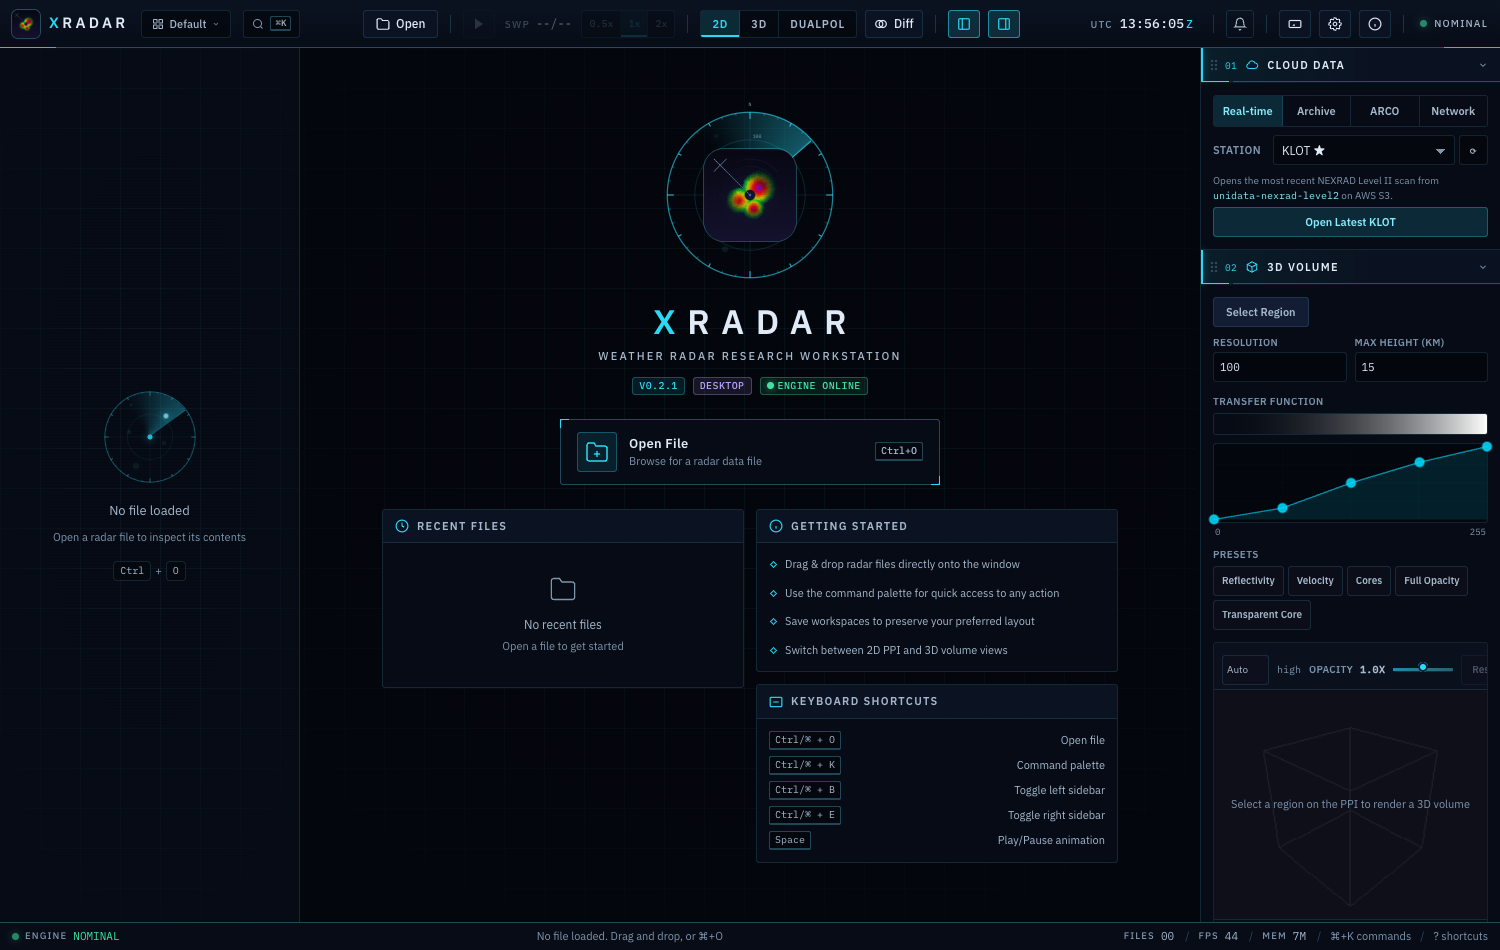
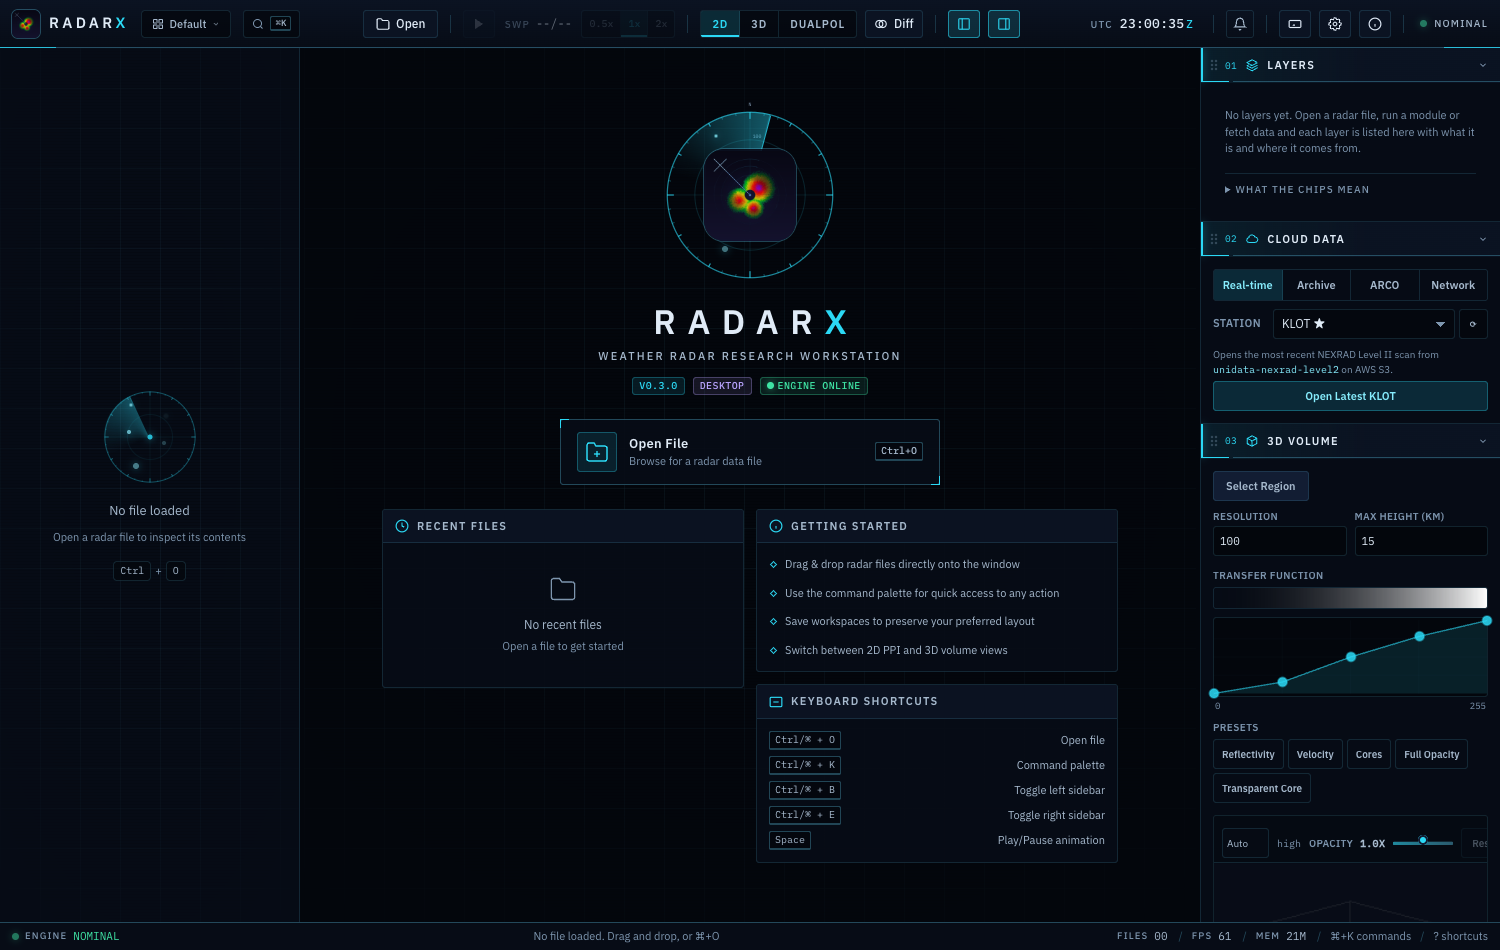
Docs and README: welcome screenshots with the Radarx screen, download and report paths without repository links, current export folder and xradar docs host

diff --git a/docs/conf.py b/docs/conf.py
@@ -61,7 +61,7 @@ intersphinx_mapping = {
     "xarray": ("https://docs.xarray.dev/en/stable/", None),
     "pandas": ("https://pandas.pydata.org/docs/", None),
     "radarx": ("https://radarx.readthedocs.io/en/latest/", None),
-    "xradar": ("https://docs.openradar.io/projects/xradar/en/stable/", None),
+    "xradar": ("https://docs.openradarscience.org/projects/xradar/en/stable/", None),
 }
 
 # -- API reference (written at build time, git-ignored) ------------------------------------------

diff --git a/CONTRIBUTING.md b/CONTRIBUTING.md
@@ -117,12 +117,12 @@ views, with no server or UI changes. Full guide: [docs/MODULES.md](docs/MODULES.
 
 Only sources are in the repository (`docs/*.md`, `docs/conf.py`); HTML and the API pages written by `conf.py` are
 build products. See [docs/contributing.md](docs/contributing.md) for how the documentation is built and
-published. A new page must be added to a `toctree` in `docs/index.md`, or the build warns.
+published. A new page must be added to a `toctree` reachable from `docs/index.md` (a section page such as `docs/user-guide.md`), or the build warns.
 
 ## Reporting problems
 
-Use the [issue forms](https://github.com/syedhamidali/radarx-desktop/issues/new/choose): *Bug report*, *Feature
-request* and *Science question* (for "is this the right physics / the right number?"). Do not attach data you do
-not have the right to share, and never post tokens or keys. For a security problem, do not open a public issue:
-use the repository's private security advisory form (Security tab) if it is enabled, or contact the maintainer
-through their [GitHub profile](https://github.com/syedhamidali).
+Use *Report an issue* in the app (About, the command palette or the Account dialog) or the form at
+<https://radarx.labshope.com/report>: choose *Bug report*, *Feature request* or *Science question* (for "is this
+the right physics / the right number?"). Do not attach data you do not have the right to share, and never post
+tokens or keys. A security problem goes through the same form; say that it is a security problem and do not
+publish details.

diff --git a/docs/index.md b/docs/index.md
@@ -14,7 +14,7 @@ html_theme.sidebar_secondary.remove: true
 **Release:** {{release}}\
 **Date:** {{today}}
 
-A desktop app (and web app) for weather radar data, built on [xradar](https://docs.openradar.io/projects/xradar/en/stable/),
+A desktop app (and web app) for weather radar data, built on [xradar](https://docs.openradarscience.org/projects/xradar/en/stable/),
 [xarray](https://xarray.dev/) and [radarx](https://radarx.readthedocs.io/en/latest/). Open a file, see it in 2D
 and 3D, clean it, run algorithms, combine several radars into mosaics and wind analyses, and export the
 result. Everything the app does is also available from Python and from the command line.

diff --git a/docs/contributing.md b/docs/contributing.md
@@ -33,7 +33,7 @@ pip install sphinx pydata-sphinx-theme myst-nb sphinx-copybutton ipykernel
 cd docs && python -m sphinx -T -b html -d _build/doctrees -w _build/warnings.txt . _build/html
 ```
 
-A new page must be listed in a `toctree` of `index.md`; the only warning expected offline is the unreachable
+A new page must be listed in the `toctree` of a section page (for example `user-guide.md`, which `index.md` lists); the only warning expected offline is the unreachable
 intersphinx inventory.
 
 Read the Docs builds `docs/conf.py` with the conda environment in `environment.yml` (`.readthedocs.yaml`).

diff --git a/docs/usage.md b/docs/usage.md
@@ -64,5 +64,5 @@ Chain de-aliasing, clutter and biological filters, SNR gates, despeckle, smoothi
 ## Export
 
 PNG, SVG and PDF figures, and NetCDF (CfRadial1), CfRadial2, Zarr and CSV data, including derived fields.
-Exports go to the folder you choose (or `~/Downloads/xradar-exports`); in the web version they are browser
+Exports go to the folder you choose (or `~/Downloads/radarx-exports`); in the web version they are browser
 downloads.

diff --git a/README.md b/README.md
@@ -30,7 +30,7 @@ draws OpenStreetMap or OpenTopoMap under the scan when it is on).</sub>
 
 ## Download
 
-Get the installer for your system from the [latest release](https://github.com/syedhamidali/radarx-desktop/releases/latest). You only need one file.
+Get the installer for your system from the [download page](https://radarx.labshope.com/#download). You only need one file.
 
 | System | File |
 |---|---|
